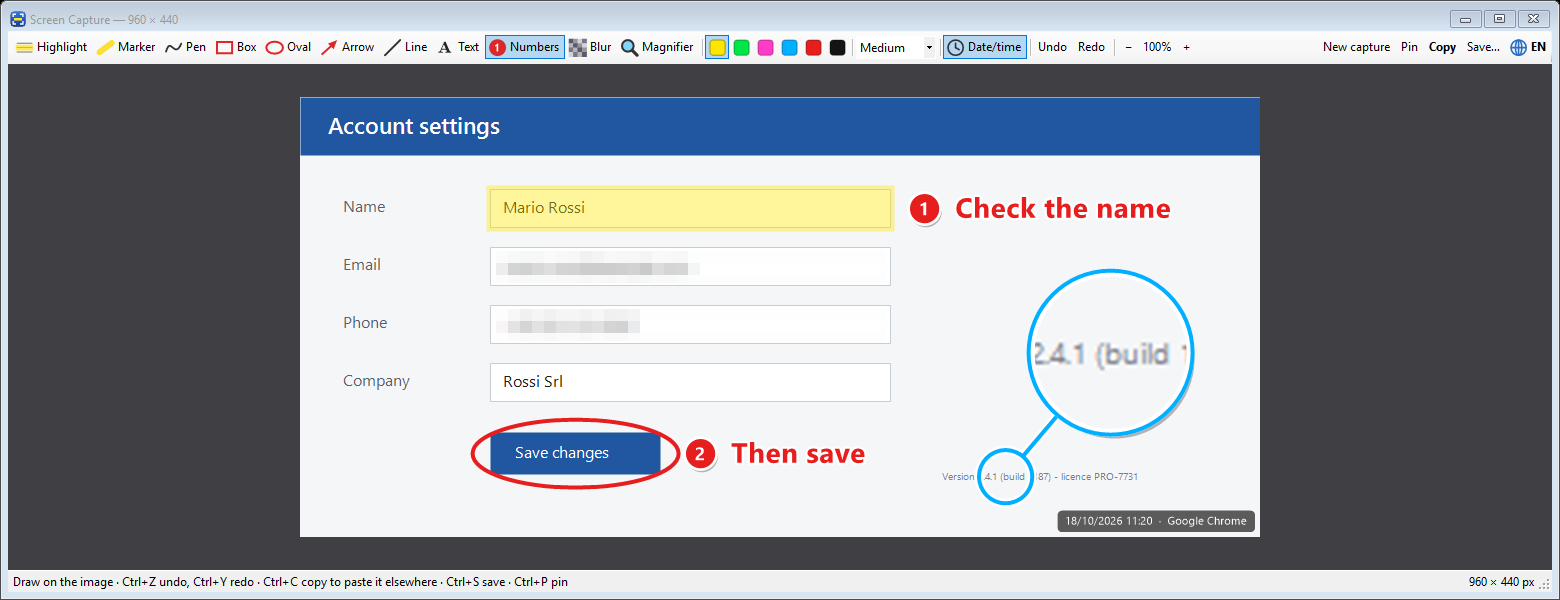
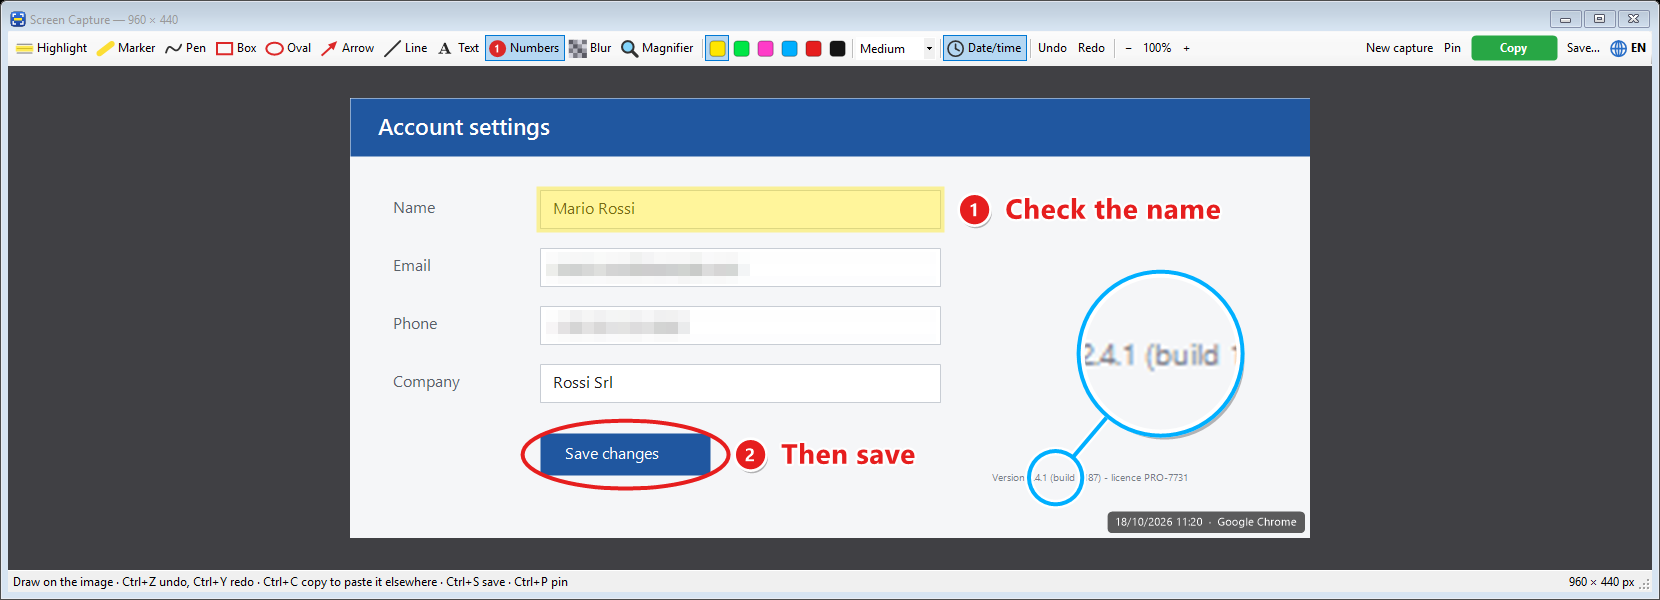
Versione 1.1.0: punto della lente spostabile e pulsante Copia evidente
- Lente: dopo averla spostata si può trascinare anche il cerchietto sul
  punto ingrandito; la lente resta ferma e mostra il nuovo contenuto
  (annullabile con Ctrl+Z).
- Copia: pulsante verde in grassetto; dopo la copia mostra per un
  attimo "✔ Copiato" / "✔ Copied".
- README e screenshot aggiornati.

diff --git a/CatturaSchermo.cs b/CatturaSchermo.cs
@@ -872,6 +872,23 @@ namespace CatturaSchermo
         }
 
         // La zona dell'immagine originale che la lente sta ingrandendo.
+        // Lente spostata: raggio del cerchietto sul punto ingrandito, e se si vede (è fuori dalla lente).
+        public float FocusRadius
+        {
+            get { RectangleF f = FocusRect(); return Math.Max(f.Width, f.Height) / 2f; }
+        }
+
+        public bool FocusVisible
+        {
+            get
+            {
+                if (Tool != Tool.Lente || !HasFocus) return false;
+                PointF c = LensCenter;
+                double dist = Math.Sqrt((c.X - Focus.X) * (c.X - Focus.X) + (c.Y - Focus.Y) * (c.Y - Focus.Y));
+                return dist > Math.Abs(B.X - A.X) / 2f + FocusRadius;
+            }
+        }
+
         public RectangleF FocusRect()
         {
             Rectangle r = Norm(A, B);
@@ -1354,6 +1371,7 @@ namespace CatturaSchermo
         int activeText = -1;            // testo che mostra cornice e pallino
         int activeBox = -1;             // riquadro/ovale che mostra cornice e quadratini
         int boxHandle = -1;             // quadratino trascinato (0-7), -1 = si sposta tutta la forma
+        bool focusDrag;                 // si sta spostando il cerchietto (punto ingrandito) di una lente
         TextBox textBox;          // casella aperta mentre si scrive un testo
         Point textAt;             // dove andrà il testo (coordinate dell'immagine)
         float textBoxSize;        // dimensione del carattere della casella aperta
@@ -1371,6 +1389,9 @@ namespace CatturaSchermo
         readonly ToolStripLabel zoomLabel;
         readonly ToolStripStatusLabel status, info;
         readonly System.Windows.Forms.Timer statusTimer = new System.Windows.Forms.Timer();
+        readonly System.Windows.Forms.Timer copiedTimer = new System.Windows.Forms.Timer();
+        ToolStripButton copyButton;
+        bool copiedShown;   // il pulsante mostra "✔ Copiato"
 
         public EditorForm(Bitmap img, string stampText)
         {
@@ -1420,8 +1441,8 @@ namespace CatturaSchermo
                 "Nascondi dati sensibili con i quadretti (8) — trascina sopra l'area",
                 "Hide sensitive data with pixelation (8) — drag over the area");
             AddToolButton(Tool.Lente, isz, "Lente", "Magnifier",
-                "Lente d'ingrandimento (9) — trascina sopra il dettaglio; trascina una lente già messa per spostarla",
-                "Magnifier (9) — drag over the detail; drag an existing magnifier to move it");
+                "Lente d'ingrandimento (9) — trascina sopra il dettaglio; trascina la lente per spostarla, il suo cerchietto per cambiare il punto ingrandito",
+                "Magnifier (9) — drag over the detail; drag the magnifier to move it, its small circle to change the magnified spot");
             strip.Items.Add(new ToolStripSeparator());
 
             for (int i = 0; i < Palette.Length; i++)
@@ -1503,15 +1524,33 @@ namespace CatturaSchermo
             save.Alignment = ToolStripItemAlignment.Right;
             save.Click += delegate { Save(); };
             Loc(delegate { save.Text = Lang.T("Salva…", "Save…"); save.ToolTipText = Lang.T("Salva come PNG o JPG (Ctrl+S)", "Save as PNG or JPG (Ctrl+S)"); });
+            // Copia: pulsante verde in grassetto, ben visibile; dopo il clic mostra per un attimo "✔ Copiato".
             var copy = new ToolStripButton();
+            copyButton = copy;
             copy.Alignment = ToolStripItemAlignment.Right;
             copy.Font = new Font(Font, FontStyle.Bold);
+            copy.AutoSize = false;
+            copy.Margin = new Padding((int)(4 * scale), 1, (int)(4 * scale), 2);
             copy.Click += delegate { Copy(); };
+            copy.Paint += (s, e) => PaintCopyButton(e.Graphics, scale);
             Loc(delegate
             {
-                copy.Text = Lang.T("Copia", "Copy");
+                copy.Text = copiedShown ? Lang.T("✔ Copiato", "✔ Copied") : Lang.T("Copia", "Copy");
                 copy.ToolTipText = Lang.T("Copia negli appunti, poi incolla con Ctrl+V dove vuoi (Ctrl+C)", "Copy to the clipboard, then paste it anywhere with Ctrl+V (Ctrl+C)");
+                // Larghezza fissa (quella della scritta più lunga), così gli altri pulsanti non si spostano.
+                int copyWidth = 0;
+                foreach (string t in new[] { "Copia", "Copy", "✔ Copiato", "✔ Copied" })
+                    copyWidth = Math.Max(copyWidth, TextRenderer.MeasureText(t, copy.Font).Width);
+                copy.Size = new Size(copyWidth + (int)(22 * scale), (int)(26 * scale));
             });
+            copiedTimer.Interval = 1600;
+            copiedTimer.Tick += delegate
+            {
+                copiedTimer.Stop();
+                copiedShown = false;
+                copy.Text = Lang.T("Copia", "Copy");
+                copy.Invalidate();
+            };
             var pin = new ToolStripButton();
             pin.Alignment = ToolStripItemAlignment.Right;
             pin.Click += delegate { Pin(); };
@@ -1681,8 +1720,8 @@ namespace CatturaSchermo
                 Flash(Lang.T("Trascina sopra nomi, email, numeri… da nascondere · lo spessore cambia la grandezza dei quadretti",
                     "Drag over names, emails, numbers… to hide · the thickness sets the size of the squares"));
             else if (t == Tool.Lente)
-                Flash(Lang.T("Trascina sopra il dettaglio · trascina una lente già messa per spostarla (con Maiusc ingrandisce il nuovo punto) · Sottile ×1,5 · Medio ×2 · Spesso ×3",
-                    "Drag over the detail · drag an existing magnifier to move it (with Shift it magnifies the new spot) · Thin ×1.5 · Medium ×2 · Thick ×3"));
+                Flash(Lang.T("Trascina sopra il dettaglio · trascina una lente per spostarla, il suo cerchietto per cambiare il punto ingrandito · Sottile ×1,5 · Medio ×2 · Spesso ×3",
+                    "Drag over the detail · drag a magnifier to move it, its small circle to change the magnified spot · Thin ×1.5 · Medium ×2 · Thick ×3"));
         }
 
         void SetColor(Color c)
@@ -2264,6 +2303,9 @@ namespace CatturaSchermo
             }
             if (tool == Tool.Lente)
             {
+                // Cerchietto di una lente spostata: si sposta il punto ingrandito, la lente resta ferma.
+                int hitFocus = HitLensFocus(p);
+                if (hitFocus >= 0) { focusDrag = true; BeginDrag(hitFocus, p, false); return; }
                 int hit = HitLens(p);
                 if (hit >= 0)
                 {
@@ -2328,6 +2370,13 @@ namespace CatturaSchermo
                 canvas.Invalidate();
                 return;
             }
+            if (moving != null && focusDrag)
+            {
+                float fx = movingOriginal.Focus.X + p.X - moveStart.X, fy = movingOriginal.Focus.Y + p.Y - moveStart.Y;
+                moving.Focus = new PointF(Math.Max(0, Math.Min(image.Width, fx)), Math.Max(0, Math.Min(image.Height, fy)));
+                canvas.Invalidate();
+                return;
+            }
             if (moving != null)
             {
                 int dx = p.X - moveStart.X, dy = p.Y - moveStart.Y;
@@ -2374,7 +2423,7 @@ namespace CatturaSchermo
                     return;
                 }
                 // Sopra una lente già messa il cursore diventa "sposta".
-                canvas.Cursor = tool == Tool.Lente && HitLens(p) >= 0 ? Cursors.SizeAll : Cursors.Cross;
+                canvas.Cursor = tool == Tool.Lente && (HitLensFocus(p) >= 0 || HitLens(p) >= 0) ? Cursors.SizeAll : Cursors.Cross;
                 return;
             }
             if (current.IsFreehand)
@@ -2426,7 +2475,9 @@ namespace CatturaSchermo
                 shapes[movingIndex] = movingOriginal;
                 rotating = false;
                 boxHandle = -1;
-                if (moved.A != movingOriginal.A || moved.B != movingOriginal.B || moved.Angle != movingOriginal.Angle)
+                focusDrag = false;
+                if (moved.A != movingOriginal.A || moved.B != movingOriginal.B || moved.Angle != movingOriginal.Angle ||
+                    moved.Focus != movingOriginal.Focus)
                     Record(new EditOp { Index = movingIndex, Before = movingOriginal, After = moved });
                 canvas.Invalidate();
                 return;
@@ -2450,6 +2501,19 @@ namespace CatturaSchermo
         }
 
         // Indice della lente sotto il punto (la più in alto), oppure -1.
+        int HitLensFocus(Point p)
+        {
+            for (int i = shapes.Count - 1; i >= 0; i--)
+            {
+                var s = shapes[i];
+                if (s.Tool != Tool.Lente || !s.FocusVisible) continue;
+                float r = s.FocusRadius + 6f / zoom;
+                float dx = p.X - s.Focus.X, dy = p.Y - s.Focus.Y;
+                if (dx * dx + dy * dy <= r * r) return i;
+            }
+            return -1;
+        }
+
         int HitLens(Point p)
         {
             for (int i = shapes.Count - 1; i >= 0; i--)
@@ -2617,6 +2681,28 @@ namespace CatturaSchermo
                 if (!ImageExport.Copy(this, bmp)) return;
             modified = false;
             Flash(Lang.T("✔ Copiata negli appunti — incollala con Ctrl+V dove vuoi.", "✔ Copied to the clipboard — paste it anywhere with Ctrl+V."));
+            copiedShown = true;
+            copyButton.Text = Lang.T("✔ Copiato", "✔ Copied");
+            copyButton.Invalidate();
+            copiedTimer.Stop();
+            copiedTimer.Start();
+        }
+
+        // Disegna il pulsante Copia: verde (più scuro sotto il mouse e quando è premuto; verde intenso dopo la copia).
+        void PaintCopyButton(Graphics g, float scale)
+        {
+            var b = copyButton;
+            var r = new Rectangle(0, 0, b.Width - 1, b.Height - 1);
+            Color bg = copiedShown ? Color.FromArgb(22, 128, 61)
+                     : b.Pressed ? Color.FromArgb(21, 115, 55)
+                     : b.Selected ? Color.FromArgb(30, 145, 70)
+                     : Color.FromArgb(40, 167, 69);
+            g.SmoothingMode = SmoothingMode.AntiAlias;
+            using (var path = IconArt.RoundRect(r, 4 * scale))
+            using (var br = new SolidBrush(bg))
+                g.FillPath(br, path);
+            TextRenderer.DrawText(g, b.Text, b.Font, r, Color.White,
+                TextFormatFlags.HorizontalCenter | TextFormatFlags.VerticalCenter | TextFormatFlags.SingleLine);
         }
 
         void Save()
@@ -2714,6 +2800,7 @@ namespace CatturaSchermo
                 image.Dispose();
                 if (view != null) view.Dispose();
                 statusTimer.Dispose();
+                copiedTimer.Dispose();
             }
             base.Dispose(disposing);
         }

diff --git a/README.md b/README.md
@@ -42,7 +42,7 @@ Lo stesso metodo funziona per i piccoli fastidi operativi di un'azienda.
 | Testo | `6` | Testo con bordo leggibile su ogni sfondo: si sposta, si inclina e si ridimensiona |
 | Numeri | `7` | Cerchietti 1, 2, 3… che si numerano da soli, con la casella per la descrizione accanto |
 | Oscura | `8` | Pixela nomi, email, numeri e altri dati sensibili (il dato originale non resta nell'immagine) |
-| Lente | `9` | Cerchio che ingrandisce un dettaglio; spostandolo resta collegato al punto d'origine |
+| Lente | `9` | Cerchio che ingrandisce un dettaglio; spostandolo resta collegato al punto d'origine, e anche il punto ingrandito si può trascinare altrove |
 
 - 6 colori e 3 spessori (**Sottile / Medio / Spesso**, che per il testo sono le dimensioni).
 - **Annulla / Ripeti** (`Ctrl+Z` / `Ctrl+Y`) anche per spostamenti, rotazioni e ridimensionamenti.
@@ -51,7 +51,8 @@ Lo stesso metodo funziona per i piccoli fastidi operativi di un'azienda.
   (es. "18/10/2026 11:20 · Google Chrome"), che si toglie con un clic su **Data e ora**.
 
 **Dopo**
-- **Copia** (`Ctrl+C`): l'immagine va negli appunti, pronta da incollare con `Ctrl+V` in Word, email, WhatsApp, Teams…
+- **Copia** (`Ctrl+C`, il pulsante verde): l'immagine va negli appunti, pronta da incollare con `Ctrl+V` in Word, email, WhatsApp, Teams…
+  Il pulsante mostra per un attimo **✔ Copiato**. Con la cronologia degli appunti di Windows (`Win+V`) puoi tenere più catture e incollare quella che vuoi.
 - **Salva** (`Ctrl+S`): PNG, JPG o BMP.
 - **Appendi** (`Ctrl+P`): l'immagine resta **sullo schermo, sempre in primo piano**, con un bordo del colore scelto,
   mentre lavori in un'altra finestra. Si sposta trascinandola, la rotellina cambia la grandezza,

diff --git a/README.en.md b/README.en.md
@@ -44,7 +44,7 @@ The same approach works for the small operational annoyances of any business.
 | Text | `6` | Text with an outline that reads on any background: move, tilt and resize it |
 | Numbers | `7` | Circles 1, 2, 3… that number themselves, with a box for the description beside them |
 | Blur | `8` | Pixelates names, emails, numbers and other sensitive data (the original stays out of the image) |
-| Magnifier | `9` | Circle that magnifies a detail; when moved it stays linked to the original spot |
+| Magnifier | `9` | Circle that magnifies a detail; when moved it stays linked to the original spot, and the magnified spot can be dragged elsewhere too |
 
 - 6 colours and 3 thicknesses (**Thin / Medium / Thick**, which are the sizes for text).
 - **Undo / Redo** (`Ctrl+Z` / `Ctrl+Y`), including moves, rotations and resizes.
@@ -53,7 +53,8 @@ The same approach works for the small operational annoyances of any business.
   (e.g. "18/10/2026 11:20 · Google Chrome"), removed with one click on **Date/time**.
 
 **Then**
-- **Copy** (`Ctrl+C`): the image goes to the clipboard, ready to paste with `Ctrl+V` into Word, email, WhatsApp, Teams…
+- **Copy** (`Ctrl+C`, the green button): the image goes to the clipboard, ready to paste with `Ctrl+V` into Word, email, WhatsApp, Teams…
+  The button briefly shows **✔ Copied**. With the Windows clipboard history (`Win+V`) you can keep several captures and paste the one you want.
 - **Save** (`Ctrl+S`): PNG, JPG or BMP.
 - **Pin** (`Ctrl+P`): the image stays **on screen, always on top**, with a border in the chosen colour,
   while you work in another window. Drag it to move it, the wheel changes its size,
